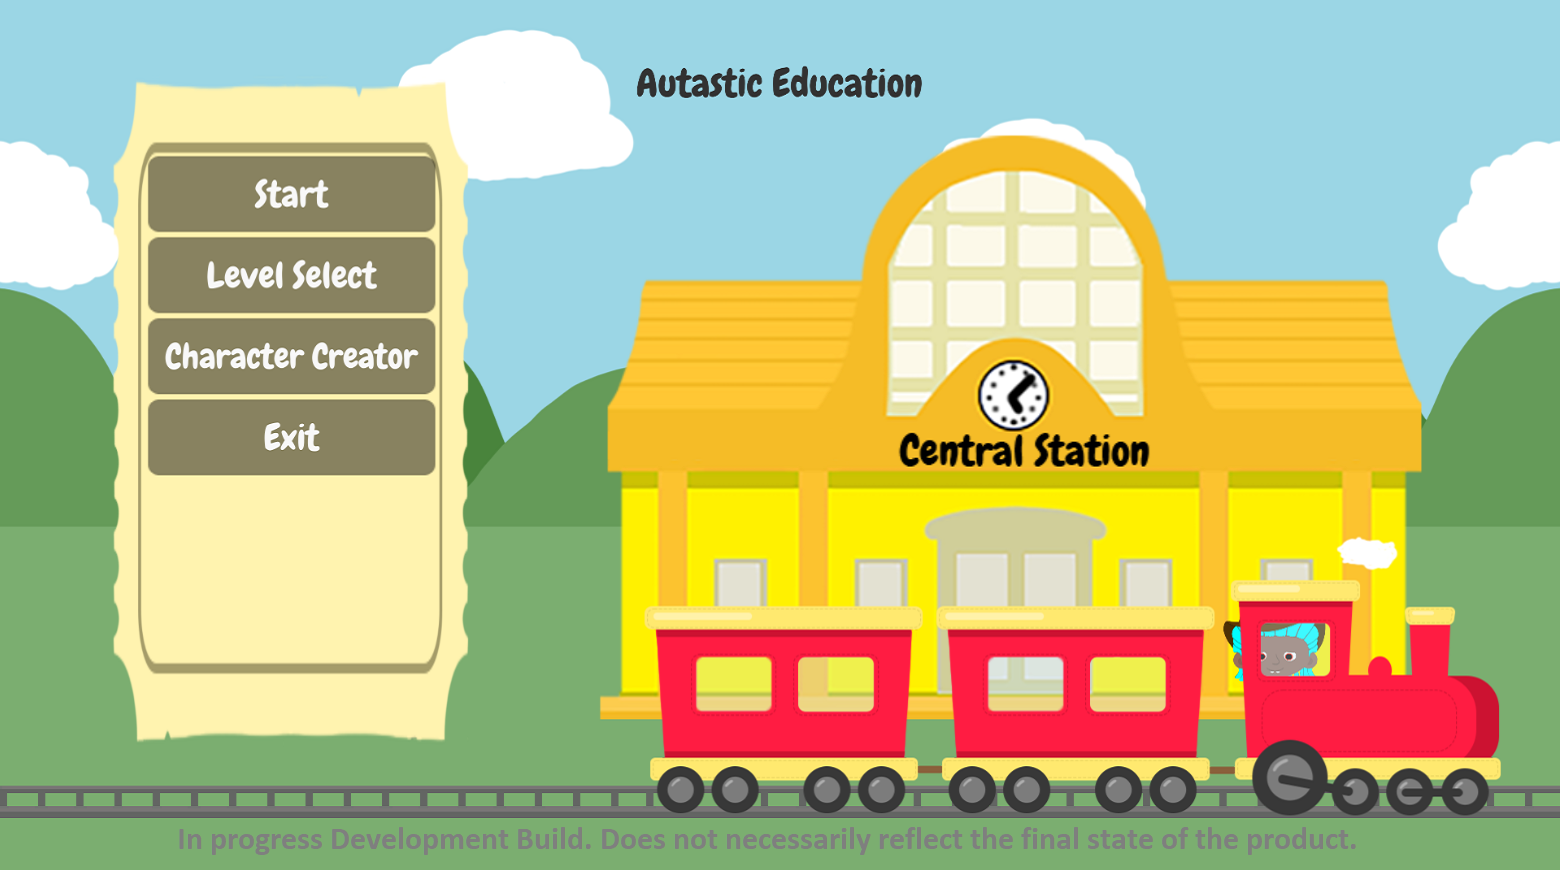
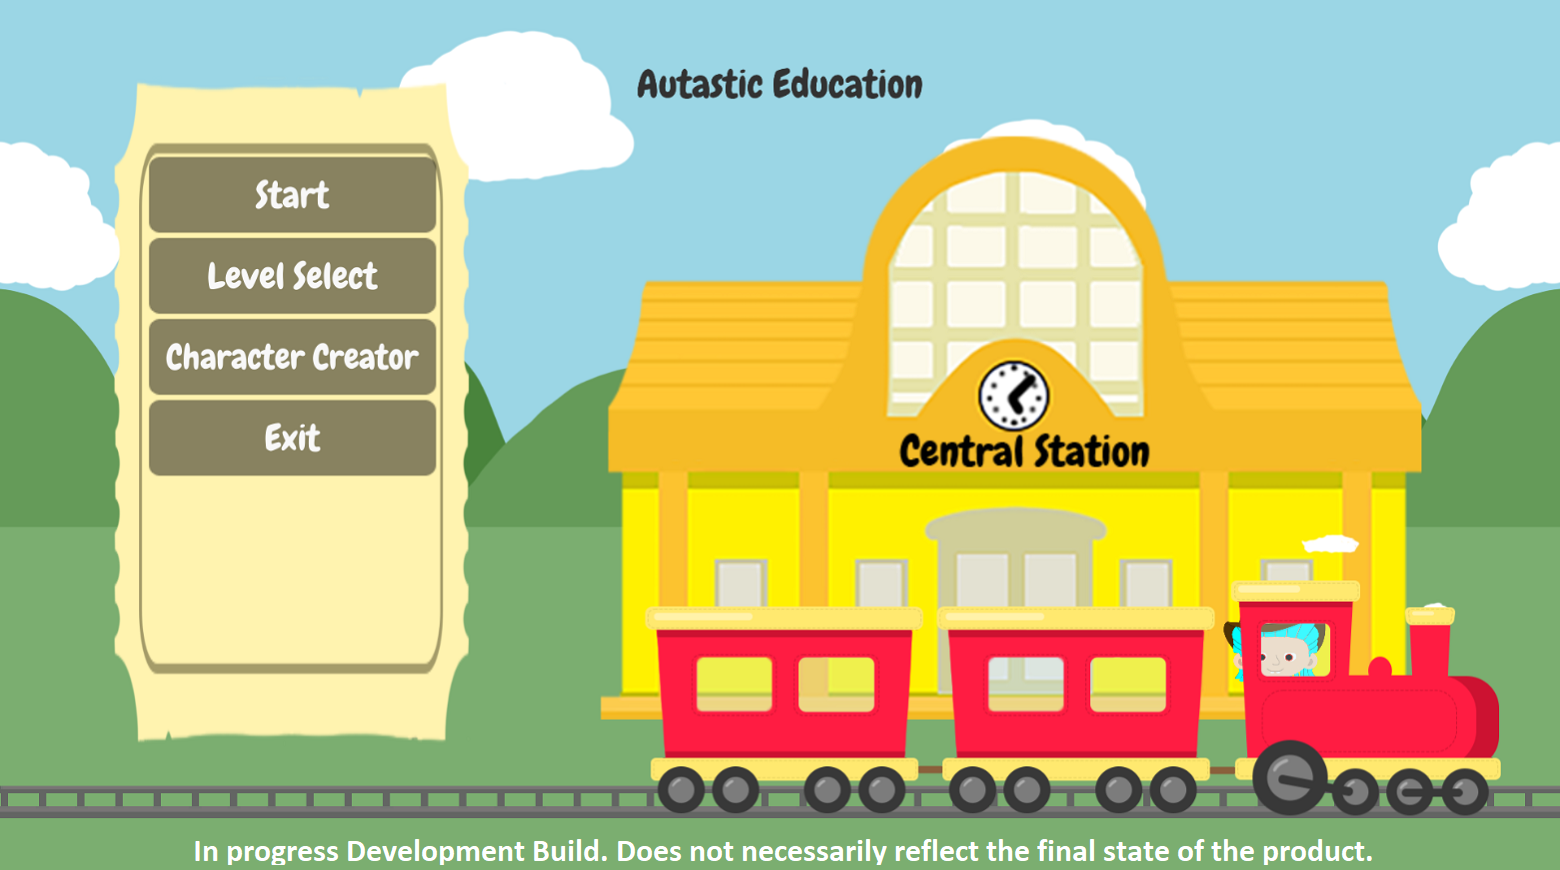
Added new elements to programming. Edited pictures of autastic therapy app

diff --git a/Pages/Programming/programming_catalog.html b/Pages/Programming/programming_catalog.html
@@ -75,13 +75,24 @@ in a zero grade, a permanent record on file and possibly immediate failure of th
                     <br>
                     <br>
                 Thanks for checking it out!</p>
+
+                <h3 class="school-projects-header">A Note on School Projects</h3>
+
+                <p class="school-projects-text">Some of the programs I have made over the course of my schooling will be in this catalog, though many will not be featured here. 
+                    If you would like to see a more complete collection of the applications/projects I made for school you can check out 
+                    <a class="school-projects-link" href="https://github.com/AndrewDTodd-SchoolProjects" target="_blank">this</a> 
+                    Github organization where I have put school projects.</p>
                 
                 <h2>Catalog Index</h2>
 
                 <div class="catalog-index-list">
                     <div>
+                        <h3>Commercial Applications</h3>
+                        <a href="#autastic_companion">Autastic Companion App</a>
+                    </div>
+                    <div>
                         <h3>Applications with GUI</h3>
-                        <a href="#uvsim">UVSim - IDE</a>
+                        <a href="#uvsim">UVSim IDE</a>
                         <a href="#sfml-mem">Card Memory Game</a>
                         <a href="#image-rotator">Image Rotator</a>
                     </div>
@@ -90,9 +101,64 @@ in a zero grade, a permanent record on file and possibly immediate failure of th
 
             <hr>
 
+            <section class="catalog-item" id="autastic_companion">
+                <div class="flex-item">
+                    <h1>Autastic Education - Companion Application</h1>
+                </div>
+
+                <div class="flex-item" id="carousel-container">
+                    <div class="carousel">
+                        <div class="slide-content">
+                            <div class="slide-image">
+                                <img src="Images/AutasticParentApp/WelcomeHomepage.png" alt="Autastic Parent App Welcome screen">
+                            </div>
+                        </div>
+
+                        <div class="slide-content">
+                            <div class="slide-image">
+                                <img src="Images/AutasticParentApp/PupilsView.png" alt="Autastic Parent App Children and Patients view">
+                            </div>
+                        </div>
+
+                        <div class="slide-content">
+                            <div class="slide-image">
+                                <img src="Images/AutasticParentApp/ChildStats.png" alt="Autastic Parent Child's stats screen">
+                            </div>
+                        </div>
+                    </div>
+    
+                    <div class="item-description">
+                        <p>
+                            The Autastic project consists of two primary applications, the therapy application (found under games) and this application. 
+                            This is the companion app meant to be used by parents and clinical professionals. 
+                            For the companion application I have had a primarily managerial role, focusing largely on design and architecture as well as other administrative tasks. 
+                            <br>
+                            <br>
+                            This application provides a unified location for parents and clinicians to digest and utilize the statistics and progress information generated by the 
+                            therapy software. It furthermore allows these parents and professionals to configure and interact with the therapy software to maximize the therapy 
+                            outcomes of their children or patients.
+                            <br>
+                            <br>
+                            The Autastic project is an ongoing project. As such the images here are from a development build and do not necessarily reflect the finished product.
+                        </p>
+                    </div>
+                </div>
+
+                <div class="item-technical-details">
+                    <h3>Technical Details and Notes</h3>
+
+                    <p>
+                        The Autastic Companion Application is developed in c# .net. It utilizes .net MAUI to create a multi platform application User Interface. Its functionality 
+                        is made possible by Microsoft Entra ID, Cosmos DB and other cloud services and technologies.
+                    </p>
+                </div>
+            </section>
+
+            <hr>
+
             <section class="catalog-item" id="uvsim">
                 <div class="flex-item">
-                    <h1>UVSim - Basic Machine Language Interpreter, Assembler, and IDE</h1>
+                    <h1>UVSim IDE - Basic Machine Language Assembler and Interpreter</h1>
                 </div>
 
                 <div class="flex-item" id="carousel-container">

diff --git a/index.html b/index.html
@@ -286,6 +286,24 @@ Figuring out how to make the site interactive with custom javascrip was tedious,
                     <div class="carousel">
                         <div class="slide-content">
                             <div class="slide-image">
+                                <a href="Pages/Programming/programming_catalog.html#autastic_companion">
+                                    <img src="Pages/Programming/Images/AutasticParentApp/WelcomeHomepage.png" alt="Autastic Education Companion App">
+                                </a>
+                            </div>
+                            <div class="slide-text">
+                                <h3>Autastic Education - Companion App</h3>
+                                <p>
+                                    A companion app to the Autastic Education therapy application (found under games). This app is used by parents and clinical professionals to interface with the 
+                                    therapy application.
+                                    <br>
+                                    <br>
+                                    Build with c# .net, Graphical User Interface constructed with .net MAUI. Authentication with Microsoft Entra ID and data hosted with Cosmos DB.
+                                </p>
+                            </div>
+                        </div>
+
+                        <div class="slide-content">
+                            <div class="slide-image">
                                 <a href="Pages/Programming/programming_catalog.html#uvsim">
                                     <img src="Pages/Programming/Images/UVSim_IED/uvsim_two.png" alt="UVSim">
                                 </a>
@@ -350,9 +368,10 @@ Figuring out how to make the site interactive with custom javascrip was tedious,
                                 </a>
                             </div>
                             <div class="slide-text">
-                                <h3>Autastic Education - ABA therapy application</h3>
+                                <h3>Autastic Education - ABA Therapy App</h3>
                                 <p>
-                                    An application designed to supplement ABA therapy for autistic children through the use of gamified ABA therapies.
+                                    An application designed to supplement ABA therapy for autistic children through the use of gamified ABA therapies. Used in conjunction with the 
+                                    Autastic Companion App (found under programming).
                                 </p>
                             </div>
                         </div>

diff --git a/Pages/Games/games_catalog.html b/Pages/Games/games_catalog.html
@@ -82,7 +82,7 @@ in a zero grade, a permanent record on file and possibly immediate failure of th
                 <div class="catalog-index-list">
                     <div>
                         <h3>Commercial Projects</h3>
-                        <a href="#autastic_education">Autastic Education</a>
+                        <a href="#autastic_education">Autastic Therapy App</a>
                     </div>
                     <div>
                         <h3>2016-2017 FBLA Submissions</h3>
@@ -99,7 +99,7 @@ in a zero grade, a permanent record on file and possibly immediate failure of th
 
             <section class="catalog-item" id="autastic_education">
                 <div class="flex-item">
-                    <h1>Autastic Education - ABA therapy application</h1>
+                    <h1>Autastic Education - ABA Therapy App</h1>
                 </div>
 
                 <div class="flex-item" id="carousel-container">
@@ -130,7 +130,9 @@ in a zero grade, a permanent record on file and possibly immediate failure of th
                     </div>
     
                     <div class="item-description">
-                        <p>The Autastic project consists of two primary applications. This is the ABA therapy supplement app meant to be used by autistic children. I have been 
+                        <p>
+                            The Autastic project consists of two primary applications, as well as this application there is a companion application (found under programming).
+                            This is the ABA therapy supplement app meant to be used by autistic children. I have been 
                             the director and technical lead on the project, coordinating efforts across the team. As well as my managerial role in this project, I have worked on 
                             individual levels and technologies used across the project.
                             <br>

diff --git a/Pages/CommonStyles/CatalogIndex.css b/Pages/CommonStyles/CatalogIndex.css
@@ -9,7 +9,7 @@
 .catalog-index-list
 {
     display: grid;
-    grid-template-columns: repeat(auto-fill, minmax(150px, 1fr));
+    grid-template-columns: repeat(auto-fill, minmax(250px, 1fr));
     gap: 10px;
 }
 .catalog-index-list a

diff --git a/Pages/CommonStyles/CatalogItem.css b/Pages/CommonStyles/CatalogItem.css
@@ -98,7 +98,7 @@
     text-decoration: underline;
 }
 
-@media(pointer: none), (pointer: coarse), (hover: none), (hover: on-demand)
+@media(max-width: 768px)
 {
     .link-to-webgl-game
     {

diff --git a/Styles/ExhibitSection.css b/Styles/ExhibitSection.css
@@ -93,7 +93,7 @@
     display: block;
 }
 
-@media(pointer: none), (pointer: coarse), (hover: none), (hover: on-demand)
+@media(max-width: 768px)
 {
     .link-to-webgl-game
     {
